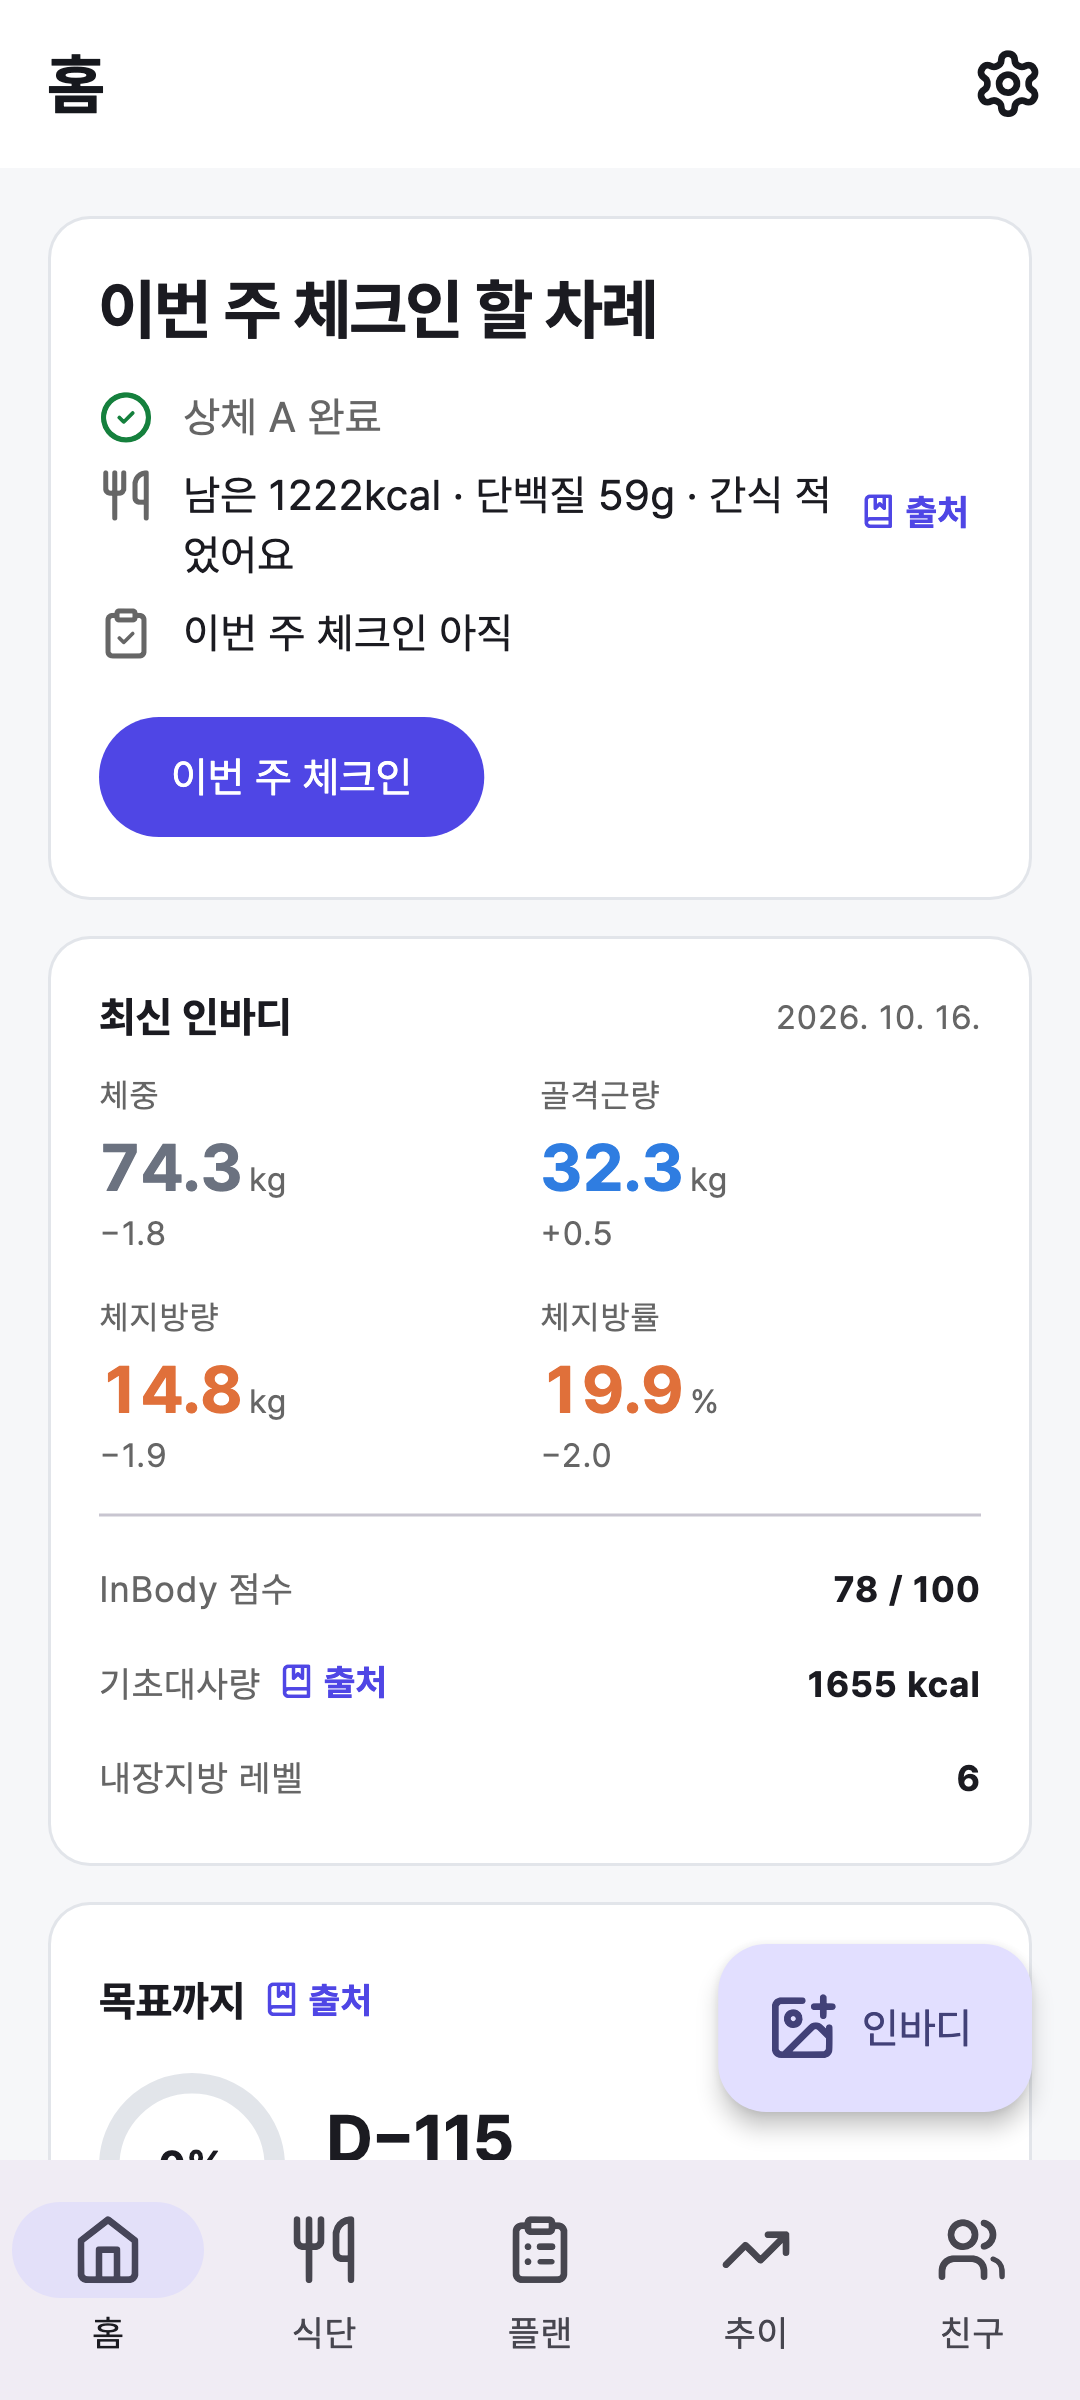
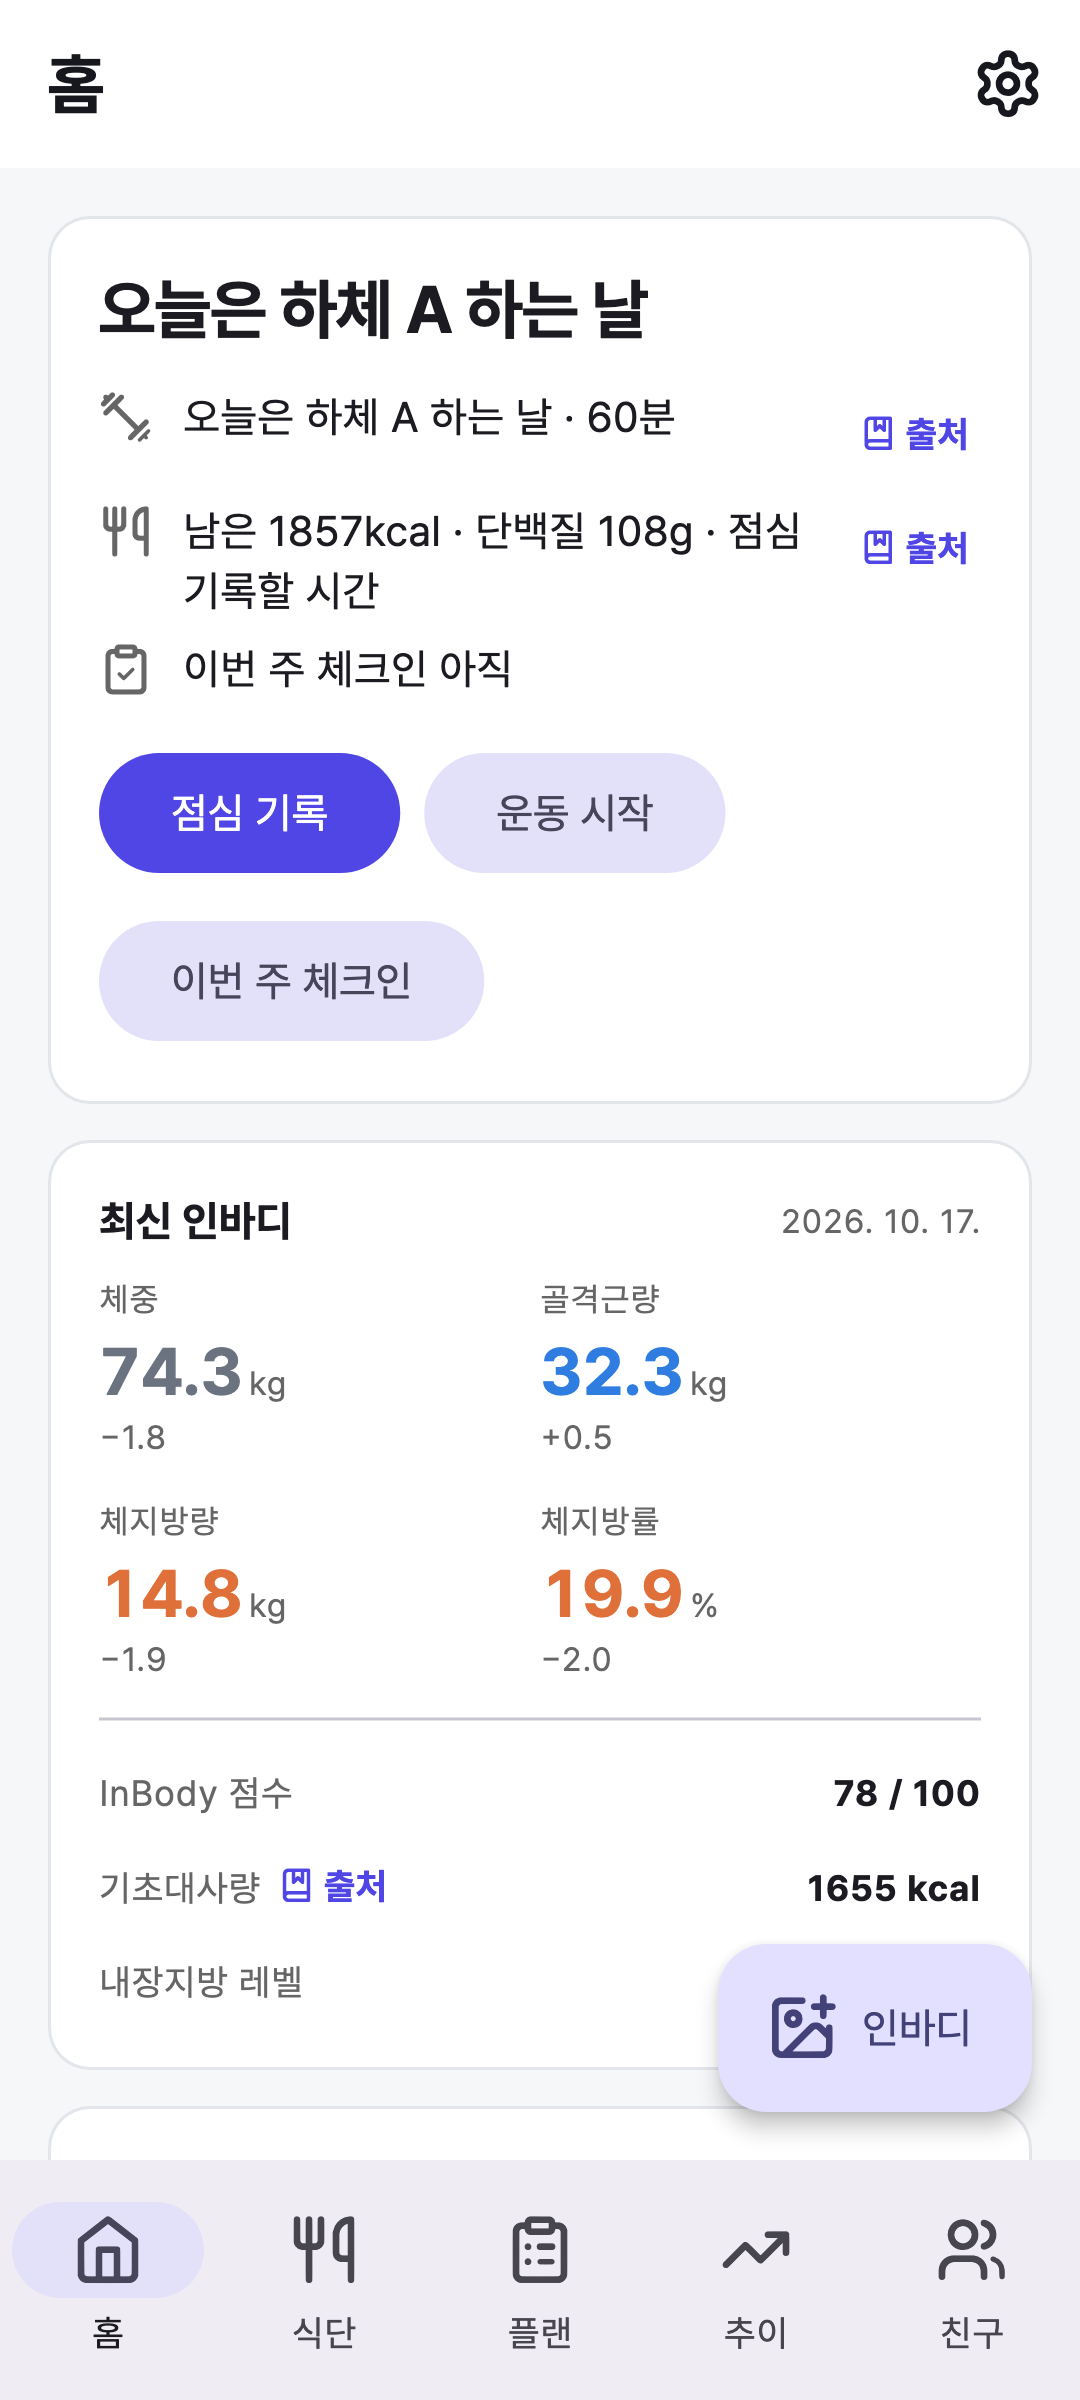
스토어 첫 장: 홈 체크인 카드에 「오늘 운동」 · 「점심 기록」 알림이 같이 뜬 모습으로
주인 수정 요청(10/20). 시계를 낮 12시 30분, 오늘을 헬스 날(아직 안 함) · 아침만 적은 날로 세운
따로 시험. 가짜 사람 데이터 그대로. 플레이 · 앱스토어 01-home 교체, 설명 띠 문구 바꿈.

diff --git a/app/test_shots/shots_test.dart b/app/test_shots/shots_test.dart
@@ -238,7 +238,8 @@ void seedWorkouts(AppState app) {
 }
 
 /// 가짜 사람의 인바디 세 장 + 목표 · 계획 · 이번 주 운동 · 오늘 식단.
-Future<AppState> rich() async {
+/// [lunch] 가 false 면 오늘은 아침만 적은 상태 — 홈 첫 장의 「점심 기록할 시간」.
+Future<AppState> rich({bool lunch = true}) async {
   SharedPreferences.setMockInitialValues({});
   final app = await AppState.boot();
   app.store.set({'profile': kDemoProfile, 'scans': demoScans(), 'onboarded': true, 'disclaimerAccepted': true});
@@ -269,6 +270,7 @@ Future<AppState> rich() async {
       {'name': n, 'unit': u, 'g': 100, 'mult': 1, 'kcal': kcal, 'p': p, 'c': c, 'f': f};
   app.store.addFoodLog({'date': today, 'meal': '아침', 'source': 'manual', 'items': [
     item('오트밀', '1그릇', 310, 11, 54, 6), item('삶은 계란', '2개', 155, 13, 1, 11)]});
+  if (!lunch) return app;
   app.store.addFoodLog({'date': today, 'meal': '점심', 'source': 'manual', 'items': [
     item('닭가슴살', '1팩', 165, 31, 0, 3.6), item('현미밥', '1공기', 330, 7, 72, 2), item('김치', '1접시', 20, 1, 3, 0)]});
   app.store.addFoodLog({'date': today, 'meal': '간식', 'source': 'manual', 'items': [
@@ -336,14 +338,33 @@ void main() {
     restore();
   });
 
-  testWidgets('탭 다섯 — 홈 · 식단 · 플랜 · 추이 · 친구', (t) async {
+  /* 스토어 첫 장 — 홈 맨 위 브리핑(체크인 카드)에 「오늘 운동」 과 「밥 기록」 알림이 같이 뜬 모습.
+     시계를 오늘 낮 12시 30분에 세우고, 오늘을 헬스 날(아직 안 함) · 아침만 적은 날로 둡니다. */
+  testWidgets('홈 — 오늘 운동 · 점심 기록 알림', (t) async {
+    phone(t);
+    final app = await rich(lunch: false);
+    final d = DateTime.now();
+    app.store.now = () => DateTime(d.year, d.month, d.day, 12, 30);
+    final today = app.store.dayKey();
+    app.store.setSchedulePlan(today, 'gym', true);
+    app.store.setScheduleDone(today, 'gym', false);
+    final api = await signedIn(friendsClient());
+    await t.pumpWidget(host(app, api, const Shell()));
+    await settle(t);
+    expect(find.byType(ErrorWidget), findsNothing);
+    expect(find.textContaining('하는 날'), findsWidgets);
+    expect(find.textContaining('점심 기록할 시간'), findsOneWidget);
+    await shot(t, '01-home');
+    restore();
+  });
+
+  testWidgets('탭 넷 — 식단 · 플랜 · 추이 · 친구', (t) async {
     phone(t);
     final app = await rich();
     final api = await signedIn(friendsClient());
     await t.pumpWidget(host(app, api, const Shell()));
     await settle(t);
     expect(find.byType(ErrorWidget), findsNothing);
-    await shot(t, '01-home');
     for (final (label, name) in [('식단', '06-food'), ('플랜', '05-plan'), ('추이', '07-progress'), ('친구', '08-social')]) {
       await t.tap(find.text(label).last);
       await settle(t);

diff --git a/play/make-shots.py b/play/make-shots.py
@@ -27,7 +27,7 @@ INK = (23, 23, 31)
 # 파일 이름(확장자 빼고)에 이 글자가 들어 있으면 그 설명을 얹습니다. 순서대로
 # 처음 맞는 것. 없으면 설명 없이 화면만.
 CAPTIONS = [
-    ('home',     '홈 — 최신 인바디와 변화량, 이번 주 운동'),
+    ('home',     '오늘 운동할 날, 밥 기록할 때를 알려 줍니다'),
     ('upload',   '결과지 사진 한 장이면 숫자를 읽어 줍니다'),
     ('review',   '읽은 값을 검산하고 확인합니다'),
     ('goal',     '목표를 정하면 언제 닿는지 알려 줍니다'),

diff --git a/store-review/README.md b/store-review/README.md
@@ -69,6 +69,10 @@
 - 플레이 `play/그림/스크린샷/` **8장**(최대 8): 홈 · 결과지 올리기 · 플랜 · 식단 · 추이 · 친구 상세 · **누르고 말하기(새)** · **지난 운동 기록(새)**
 - 앱스토어 `appstore/그림/스크린샷-6.9/` **10장**(최대 10): 위 8장 + 검산 · 목표
 
+**첫 장(01-home) — 10/20 주인 수정 요청 반영:** 홈 맨 위 체크인 카드에 「오늘은 하체 A 하는 날 · 60분」(운동)과
+「점심 기록할 시간」(밥 기록) 알림이 같이 뜬 모습(낮 12시 30분 · 아침만 적은 날로 세움). 설명 띠 「오늘 운동할 날,
+밥 기록할 때를 알려 줍니다」. 플레이 · 앱스토어 둘 다 교체.
+
 **무엇이 바뀌었나**
 - 전: 주인의 실제 인바디(체중 86.7 · 골격근 37.9 · 체지방 20.0kg · 9/19 측정, 6/30 · 8/31 이력)와
   실제 결과지 사진. **지금 플레이 · 앱스토어에 올라가 있는 스크린샷이 이것**입니다(앱스토어 1번 사진에서 86.7 확인).
